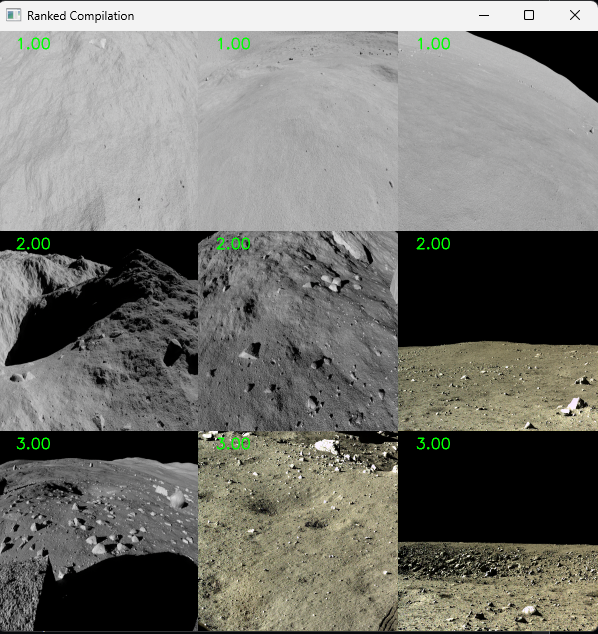
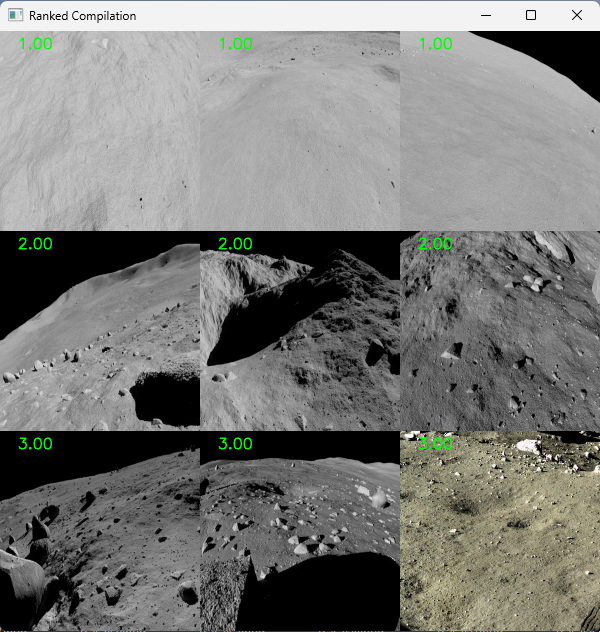
Updates to the image plotting and indexing

diff --git a/src/ippsra/rank_images.py b/src/ippsra/rank_images.py
@@ -62,22 +62,18 @@ def get_args():
     return parser.parse_args()
 
 
-def rank_images():  # sourcery skip: extract-method
+def rank_images():
     """The main script in this repository that will iterate through a directory
     and output ranked data to a CSV file in the name of the user's choice and
-    location.
+    location. As well as other plots with the use of the plot_utils.py script
 
     Raises:
         OSError: The specified directory does not exist
         OSError: The specified directory does not contain any images
-
-    Outputs:
-        Images: Images with or without bounding boxes that
-               identify the hazards in the image displayed to a window.
-        Compilation: A compilation of images with their corresponding ranking
-                    will be displayed in a window.
-        Ranking Chart: A graphic (that can be toggled on or off) will display
-                      the ranking clarification.
+        OSError: The specified directory has data created with the same
+        specified name
+        OSError: The directory that the CSV file is to be saved to does not
+        exist
     """
     args = get_args()
 
@@ -142,11 +138,9 @@ def rank_images():  # sourcery skip: extract-method
 
         # Create a data frame from the nested lists
         image_info = pd.DataFrame(Is, columns=header, index=None)
+        # Sort the data by the density of hazards
         sorted_image_info = image_info.sort_values(
             by='Density of Hazards', ascending=True)
-        # Second sort to sor the data by the number of hazards
-        number_of_hazards_sort = sorted_image_info.sort_values(
-            by='Number of Hazards', ascending=True)
 
         # Pull out all images that have a hazard score of 1
         filt_hazard_score = 1
@@ -183,9 +177,11 @@ def rank_images():  # sourcery skip: extract-method
         if showImages == 'True':
             # Full path to the image that will be displayed
             best_img = os.path.join(imageDir,
-                                    sorted_image_info['Image Name'][0])
+                                    sorted_image_info['Image Name'].iloc[1])
             worst_img = os.path.join(imageDir,
-                                     sorted_image_info['Image Name'].iloc[-1])
+                                     sorted_image_info['Image Name'].iloc[
+                                         (len(one_hazard)
+                                          + len(two_hazard) + 3)])
 
             # Show the best and worst images with bounding boxes
             pu.concat_image(best_img, save, showImages, fileNameBest)
@@ -203,6 +199,7 @@ def rank_images():  # sourcery skip: extract-method
         # Save the data frame to a csv file if the user specifies
         if save == 'True':
             # Save the raw data to a CSV file
+            # Comment out if you don't want to save the raw data
             image_info.to_csv(os.path.join(csvPath, 'raw_data.csv'),
                               index=False)
 

diff --git a/src/ippsra/plot_utils.py b/src/ippsra/plot_utils.py
@@ -184,7 +184,7 @@ def compilation_rank(imageDir, one_hazard, two_hazard, three_hazard,
         three_hazard_images.append(image)
         i = i + 1
 
-    # create a montage using 200x200 "tiles" with 3 rows and 3 columns
+    # create a montage using 400x400 "tiles" with 3 rows and 3 columns
     i = 0
     scored_images = []
     for img in range(len(one_hazard)):
@@ -217,15 +217,15 @@ def compilation_rank(imageDir, one_hazard, two_hazard, three_hazard,
                        (35, 35), cv.FONT_HERSHEY_SIMPLEX, 1, (0, 255, 0), 2)
             )
         i = i + 1
-
     # convert scored_images to a numpy array of select images
-    selected_images = [scored_images[0], scored_images[1], scored_images[2],
+    selected_images = [scored_images[1], scored_images[2], scored_images[3],
                        scored_images[(len(one_hazard) + 1)],
                        scored_images[(len(one_hazard) + 2)],
                        scored_images[(len(one_hazard) + 3)],
                        scored_images[(len(one_hazard) + len(two_hazard) + 1)],
                        scored_images[(len(one_hazard) + len(two_hazard) + 2)],
                        scored_images[(len(one_hazard) + len(two_hazard) + 3)]]
+
     montage = build_montages(selected_images, (200, 200), (3, 3))[0]
     if showImages == 'True':
         cv.imshow("Ranked Compilation", montage)

diff --git a/src/ippsra/image_processing_funcs.py b/src/ippsra/image_processing_funcs.py
@@ -178,10 +178,9 @@ class ImageAnalysis():
             hazard score
         """
         image_data = sorted_image_info['Hazard Score']
-        hazard_score = sorted_image_info['Hazard Score']
         for rank in image_data:
             if rank == filt_hazard_score:
                 filt_hazard_list = sorted_image_info.loc[image_data ==
                                                          filt_hazard_score]
-                filt_hazard_list = filt_hazard_list.reset_index(drop=True)
+                filt_hazard_list = filt_hazard_list.reset_index(drop=False)
                 return filt_hazard_list
